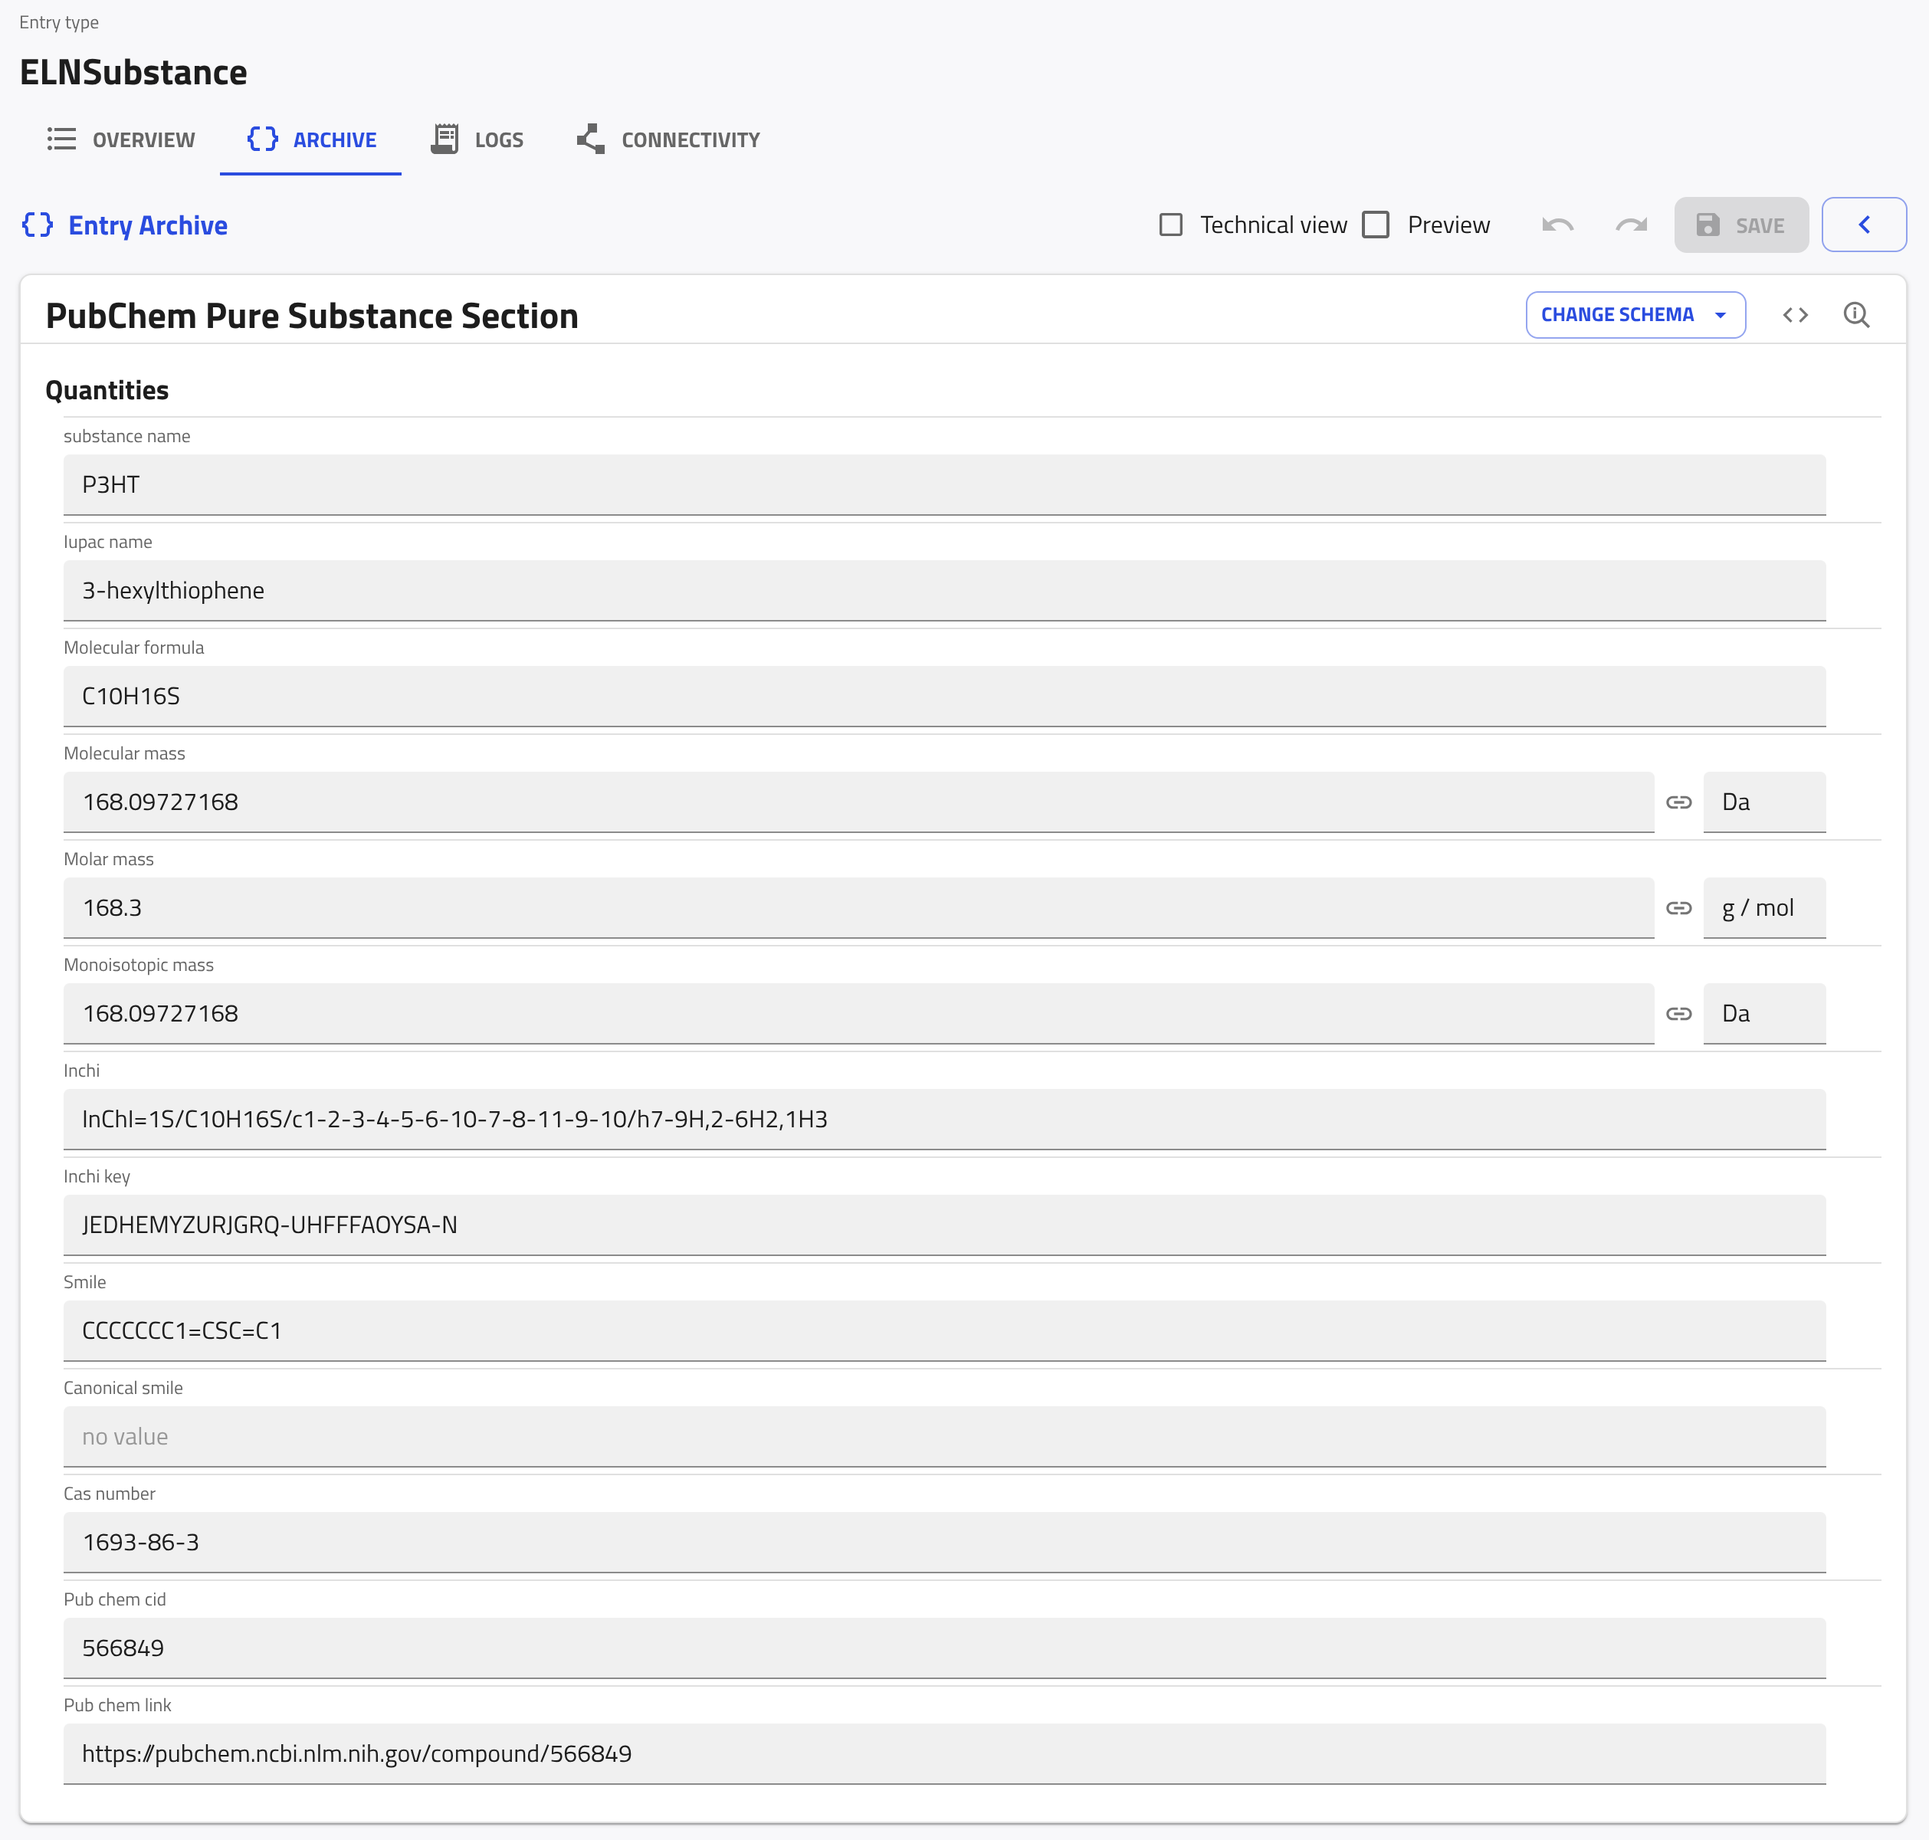
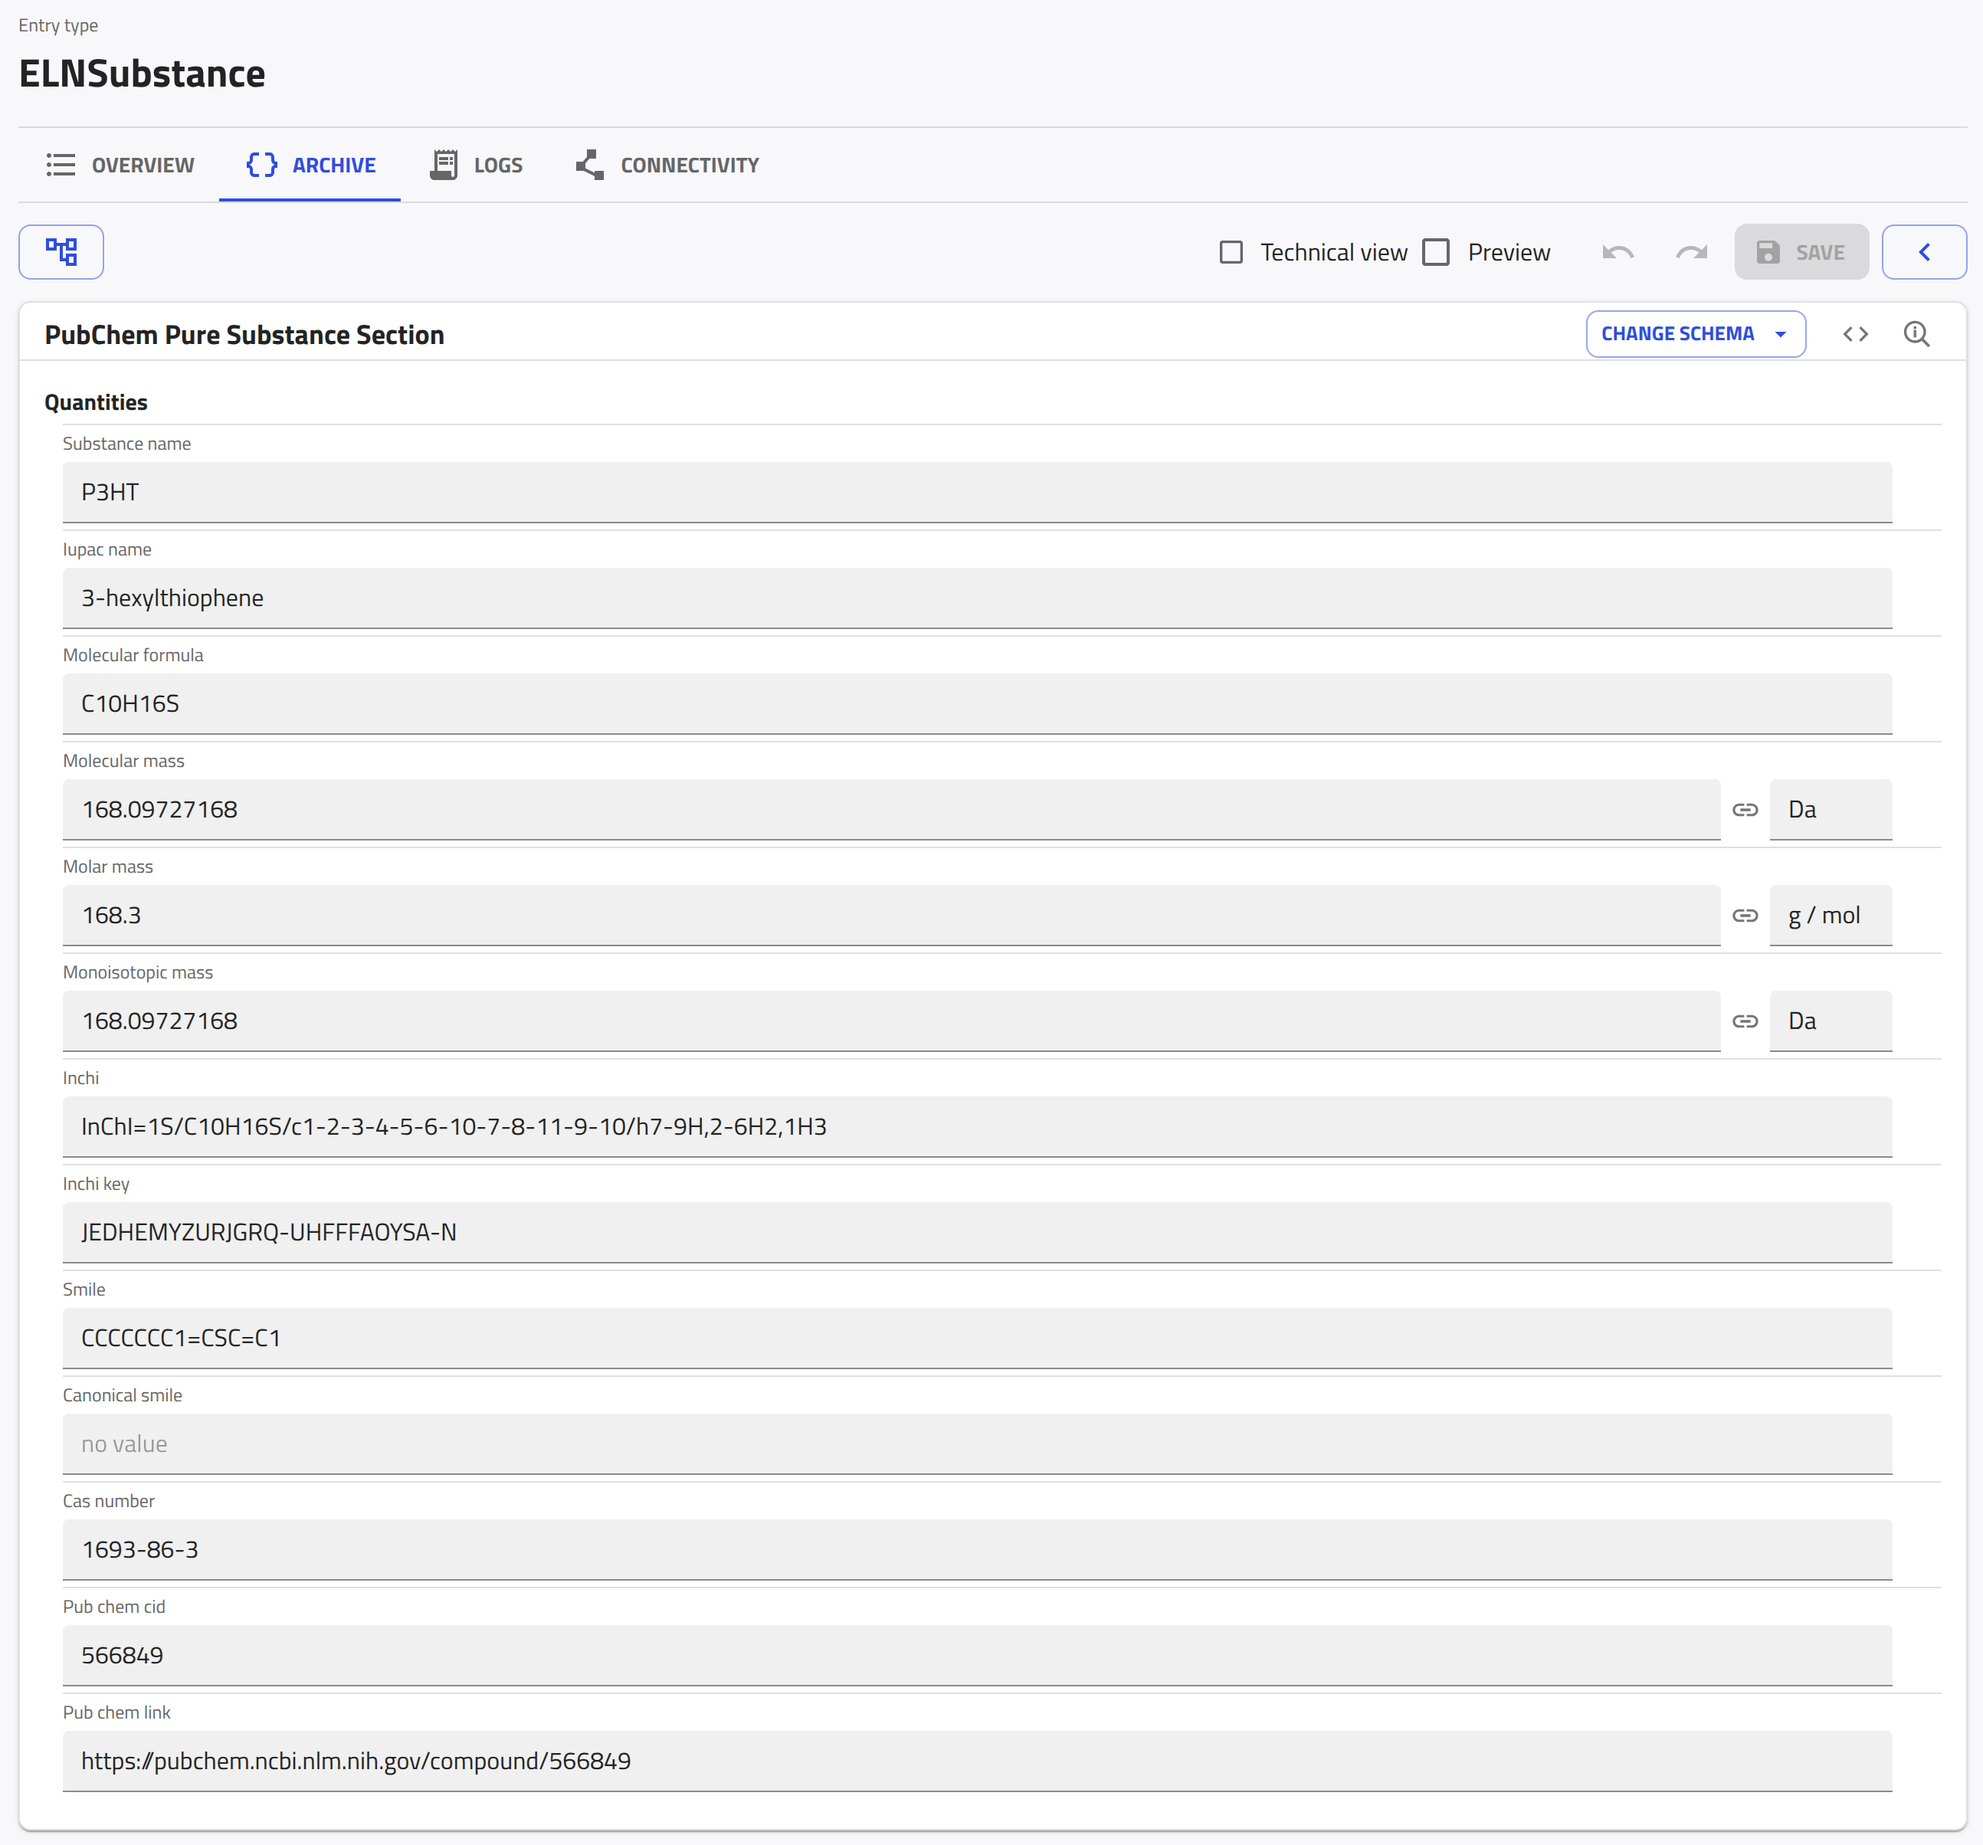
Update GUI labels in the built-in ELN templates tutorial

diff --git a/docs/tutorial/eln/built_in_templates.md b/docs/tutorial/eln/built_in_templates.md
@@ -84,14 +84,14 @@ Create an entry for the **P3HT powder**. Follow the steps in [Create ELN entries
 
 NOMAD creates and opens the entry. You can then fill in its fields and click **SAVE** to save your changes.
 
-NOMAD automatically fills in the **substance name** (from the filename), the **Datetime**, and the **substance ID**. You can edit these values if needed. Complete the substance entry as follows:
+NOMAD automatically fills in the **Substance name** (from the filename), the **Datetime**, and the **Substance ID**. You can edit these values if needed. Complete the substance entry as follows:
 
-1. Enter `Regioregular poly(3-hexylthiophene-2,5-diyl) powder for preparing P3HT solutions.` in the **detailed substance description** field. Optionally, add an image of the substance or its chemical structure to this field.
+1. Enter `Regioregular poly(3-hexylthiophene-2,5-diyl) powder for preparing P3HT solutions.` in the **Detailed substance description** field. Optionally, add an image of the substance or its chemical structure to this field.
 2. Click the **(+)** button next to the **Tags** field and enter `polymer`. Tags improve the searchability of your entries.
 3. Click the **(+)** button next to **Pure substance** under **Subsections**.
 4. Click **CHANGE SCHEMA** and select **PubChem Pure Substance Section**.
 5. Click the check mark (✓) next to **CHANGE SCHEMA** to confirm your selection.
-6. Enter `P3HT` in the **substance name** field.
+6. Enter `P3HT` in the **Substance name** field.
 7. Click **SAVE**.
 
 NOMAD searches PubChem for the substance name and fills in the other fields, e.g., **Iupac name**, **Molecular formula**, **Molar mass**, and **Cas number**. For `P3HT`, PubChem provides the data of its monomer, 3-hexylthiophene.
@@ -104,7 +104,7 @@ NOMAD searches PubChem for the substance name and fills in the other fields, e.g
     - Chloroform: `Chloroform`
     - Glass substrate: `Glass_substrate`
 
-    Include as many details as you like, e.g., a **detailed substance description** and **Tags**. For chloroform, add a **Pure substance** subsection with the *PubChem Pure Substance Section*, and enter `chloroform` as its **substance name**.
+    Include as many details as you like, e.g., a **Detailed substance description** and **Tags**. For chloroform, add a **Pure substance** subsection with the *PubChem Pure Substance Section*, and enter `chloroform` as its **Substance name**.
 
 ---
 
@@ -122,7 +122,7 @@ Fill in the fields of the sample entry in the same way as for the substance entr
 6. Click `P3HT_powder.archive.json`, and then click **Substance ELN (./data)** below it.
 7. Click **SAVE**.
 
-The **System** field now references the `P3HT_powder` entry, and NOMAD fills in the **component label** with the substance name.
+The **System** field now references the `P3HT_powder` entry, and NOMAD fills in the **Component label** with the substance name.
 
 You can reference other entries in the same way wherever an ELN field refers to another entry, e.g., to instruments, samples, or input substances.
 
@@ -138,7 +138,7 @@ You can reference other entries in the same way wherever an ELN field refers to 
 
 Create an entry for the **balance** that is used to weigh the polymer powder. Follow the steps in [Create ELN entries](#create-eln-entries): select **Instrument ELN** as the built-in schema and enter `Balance` as the **Filename**.
 
-As for the substance entry, NOMAD has already filled in the **name**, the **Datetime**, and the **ID**. Fill in further fields, e.g., **Description** and **Tags**, and click **SAVE**.
+As for the substance entry, NOMAD has already filled in the **Name**, the **Datetime**, and the **ID**. Fill in further fields, e.g., **Description** and **Tags**, and click **SAVE**.
 
 ??? task "Create an ELN entry for an instrument"
     Create an ELN entry with the *Instrument ELN* schema for each of the following instruments. Use the given filenames:
@@ -154,11 +154,11 @@ As for the substance entry, NOMAD has already filled in the **name**, the **Date
 
 Create an entry for the **preparation of the P3HT solution** process. Follow the steps in [Create ELN entries](#create-eln-entries): select **Material Processing ELN** as the built-in schema and enter `Preparation_of_P3HT_solution` as the **Filename**.
 
-Enter the process start time in **starting Time** and complete additional fields, such as **Location**, **Description**, and **Tags**. Then reference the `Balance` entry as the instrument used to weigh the powder:
+Enter the process start time in **Starting time** and complete additional fields, such as **Location**, **Description**, and **Tags**. Then reference the `Balance` entry as the instrument used to weigh the powder:
 
 1. Click the **(+)** button next to **Instruments** under **Subsections**.
 2. Keep **InstrumentReference** and click the check mark (✓) next to **CHANGE SCHEMA** to confirm it.
-3. Reference the `Balance` entry in the **instrument reference** field, in the same way as you referenced the P3HT powder in the sample entry.
+3. Reference the `Balance` entry in the **Instrument reference** field, in the same way as you referenced the P3HT powder in the sample entry.
 4. Click **SAVE**, and then click **data** in the path at the top to return to the process.
 
 ??? task "Reference a sample to your process ELN"
@@ -179,12 +179,12 @@ Add the following steps to the **Preparation of P3HT solution** process:
 To add the steps:
 
 1. Click the **(+)** button next to **Steps** under **Subsections**.
-2. Enter `Weighing the powder` in the **step name** field.
+2. Enter `Weighing the powder` in the **Step name** field.
 3. Enter `minute` in the unit field next to **Duration**, select it from the list, and enter `5` as the duration.
 4. Click **SAVE**.
 5. Click **data** in the path at the top to return to the process, and add the other two steps in the same way: `Filling the solvent` with a duration of `2` minutes and `Mixing the solution` with a duration of `30` minutes.
 
-You can also fill in the **starting time** and a **Comment** for each step. If you enter a **Duration** for every step, NOMAD calculates the **starting time** of each step from the process **starting Time** and fills in the process **ending time**.
+You can also fill in the **Starting time** and a **Comment** for each step. If you enter a **Duration** for every step, NOMAD calculates the **Starting time** of each step from the process **Starting time** and fills in the process **Ending time**.
 
 NOMAD uses the steps to create a workflow graph. To view it, click the **OVERVIEW** tab of the entry and scroll down to the **Workflow** card. The process steps appear as tasks, and entries referenced under **Samples**, such as `P3HT_solution_in_CF`, appear as outputs.
 
@@ -196,13 +196,13 @@ NOMAD uses the steps to create a workflow graph. To view it, click the **OVERVIE
 
 Create an entry for the **optical absorption measurement**. Follow the steps in [Create ELN entries](#create-eln-entries): select **Measurement ELN** as the built-in schema and enter `Optical_absorption_measurement` as the **Filename**.
 
-Complete the measurement fields, such as **starting Time**, **Location**, **Description**, and **Tags**. Then add the instrument and measurement result:
+Complete the measurement fields, such as **Starting time**, **Location**, **Description**, and **Tags**. Then add the instrument and measurement result:
 
 1. Click the **(+)** button next to **Instruments** under **Subsections**.
 2. Keep **InstrumentReference** and click the check mark (✓) next to **CHANGE SCHEMA**.
-3. Reference the `Optical_spectrometer` entry from the instrument task in the **instrument reference** field, in the same way as you referenced entries before, and click **SAVE**.
+3. Reference the `Optical_spectrometer` entry from the instrument task in the **Instrument reference** field, in the same way as you referenced entries before, and click **SAVE**.
 4. Click **data** in the path at the top, and then click the **(+)** button next to **Results**.
-5. Enter `Absorption spectrum` in the **name** field and `Absorption maximum at 552 nm.` in the **Result** field. You can also add images to the **Result** field.
+5. Enter `Absorption spectrum` in the **Name** field and `Absorption maximum at 552 nm.` in the **Result** field. You can also add images to the **Result** field.
 6. Click **SAVE**.
 
 ---
@@ -222,7 +222,7 @@ Add `Preparation_of_P3HT_solution` and `Optical_absorption_measurement` as steps
 3. Click **SAVE**.
 4. Click **data** in the path at the top, and add a second step for `Optical_absorption_measurement` in the same way.
 
-NOMAD fills in the **step name**, the **starting time**, and the **activity ID** of each step from the referenced entry.
+NOMAD fills in the **Step name**, the **Starting time**, and the **Activity ID** of each step from the referenced entry.
 
 ---
 
